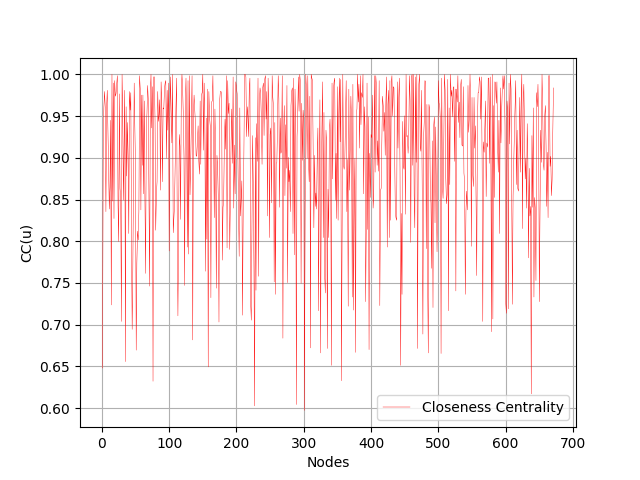
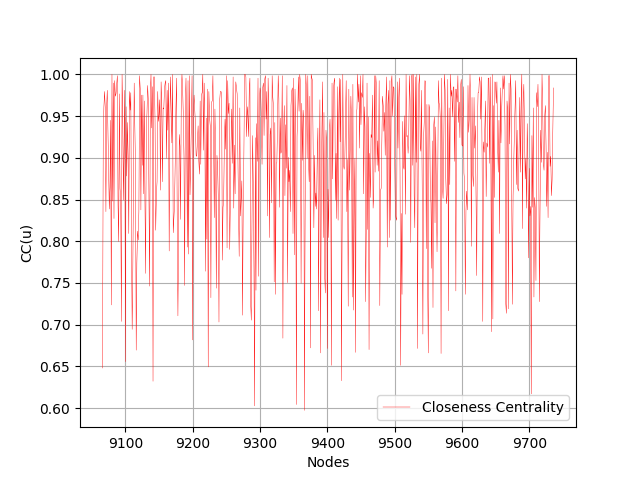
Add user and movie mappers

Changed region(s): [[0.5625, 0.9062, 0.9062, 0.9375], [0.25, 0.9062, 0.5312, 0.9375], [0.1562, 0.9062, 0.2188, 0.9375]]

diff --git a/Code/Social Networks/snap-sn.py b/Code/Social Networks/snap-sn.py
@@ -4,6 +4,7 @@ from matplotlib import pylab
 from sys import stdin
 import networkx as nx
 import pandas as pd
+import numpy as np
 import snap
 
 def plot_bipartite(BG, df):
@@ -15,6 +16,13 @@ def plot_bipartite(BG, df):
     nx.draw(BG, pos, **options)
     plt.show()
 
+def plot_snap(G, name, fig_title):
+    labels = {}
+    for NI in G.Nodes():
+        labels[NI.GetId()] = str(NI.GetId())
+    snap.DrawGViz(G, snap.gvlDot, "{0}.png".format(name), "{0}".format(fig_title))
+    return
+
 def plot_networkx(G):
     pos = nx.spring_layout(G)
     nx.draw_networkx(G,pos)
@@ -25,8 +33,17 @@ def plot_networkx(G):
 
 def movielens_graph():
     df = pd.read_csv('ratings_small.csv', usecols=[0, 1, 2])
-    df['user_id'] = df['user_id'].apply(lambda x: int(2*x))
-    df['item_id'] = df['item_id'].apply(lambda x: int(2*x+1))
+    M = df['user_id'].nunique()
+    N = df['item_id'].nunique()
+    movie_mapper = dict(zip(np.unique(df["item_id"]), list(range(0,N)))) #Nodes 0 to N-1 are movies
+    user_mapper = dict(zip(np.unique(df["user_id"]), list(range(N,N+M))))#Nodes N to M-1 are users
+    movie_inv_mapper = dict(zip(list(range(0,N)), np.unique(df["item_id"])))
+    user_inv_mapper = dict(zip(list(range(N,N+M)), np.unique(df["user_id"])))
+
+    df['user_id'] = df['user_id'].apply(lambda x: user_mapper[x])
+    df['item_id'] = df['item_id'].apply(lambda x: movie_mapper[x])
+
+    #Create the Bipartite Graph
     BG = nx.Graph()
     BG.add_nodes_from(df['user_id'], bipartite=0)
     BG.add_nodes_from(df['item_id'], bipartite=1)
@@ -40,7 +57,7 @@ def movielens_graph():
 
     #Plot the Graph User Projection
     #plot_networkx(ProjGraph)
-    #plot_snap(SnapProjGraph, "UserProjection", "User Projection with networkx")
+    #plot_snap(SnapProjGraph, "UserProjection", "User Projection")
 
     #Topological Measures of the User Projection
     degree_distribution_networkx(ProjGraph)
@@ -98,7 +115,7 @@ def topological_measures_snap(G1):
     x = []
     y = []
     for u in nodes:
-        x.append(int(u/2))
+        x.append(int(u))
         y.append(nodes[u])
     plot_graphics(x, y, 'Betweenness Centrality', 'g', "UserProjectionBetweenness.png", 0.3, 'Nodes', 'BC(u)')
 
@@ -107,11 +124,10 @@ def topological_measures_snap(G1):
     y2 = []
     for NI in G1.Nodes():
         CloseCentr = G1.GetClosenessCentr(NI.GetId())
-        x2.append(NI.GetId()/2)
+        x2.append(NI.GetId())
         y2.append(CloseCentr)
     plot_graphics(x2, y2, 'Closeness Centrality', 'r', "UserProjectionCloseness.png", 0.3, 'Nodes', 'CC(u)')
     return
-
 
 def netinf_results():
     #N = snapClustering Coefficient.TNEANet.New() #directed network
@@ -150,13 +166,6 @@ def netinf_results():
     #options = {"node_size":10, "with_labels":False, "arrows":False, "width":0.3}
     #nx.draw(G2, **options)
     #plt.savefig("IN_MovieLens2.png", format="PNG")
-    return
-
-def plot_snap(G, name, fig_title):
-    labels = {}
-    for NI in G.Nodes():
-        labels[NI.GetId()] = str(NI.GetId())
-    snap.DrawGViz(G, snap.gvlNeato, "{0}.png".format(name), "{0}".format(fig_title))
     return
 
 movielens_graph()
